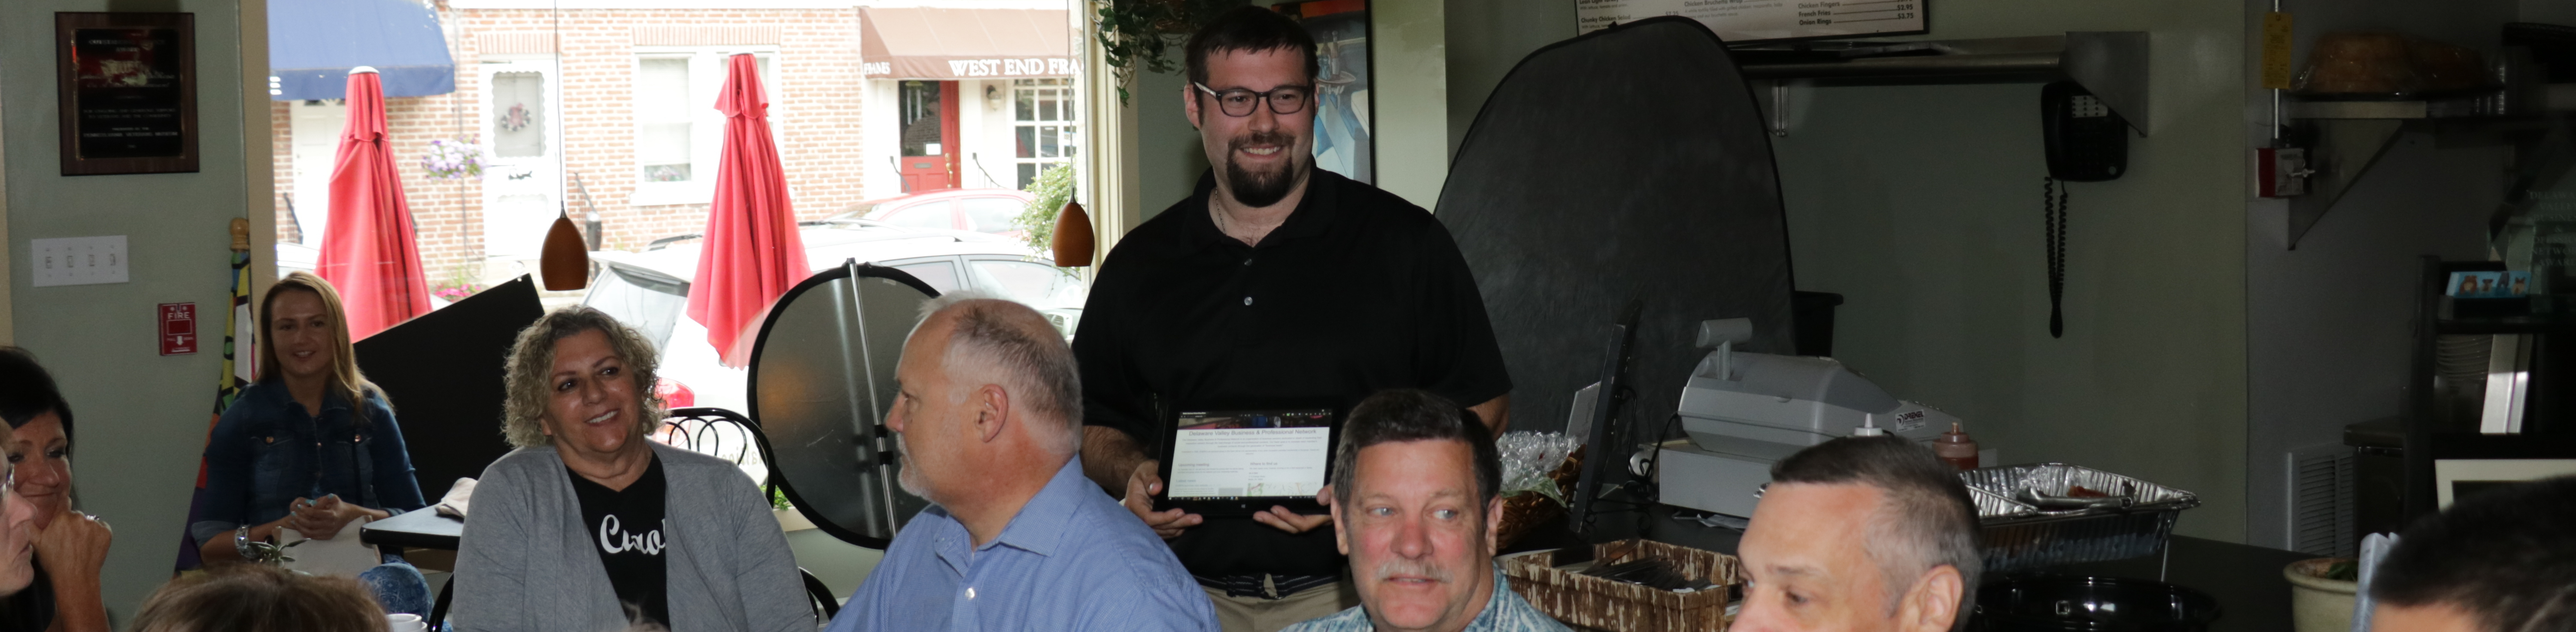
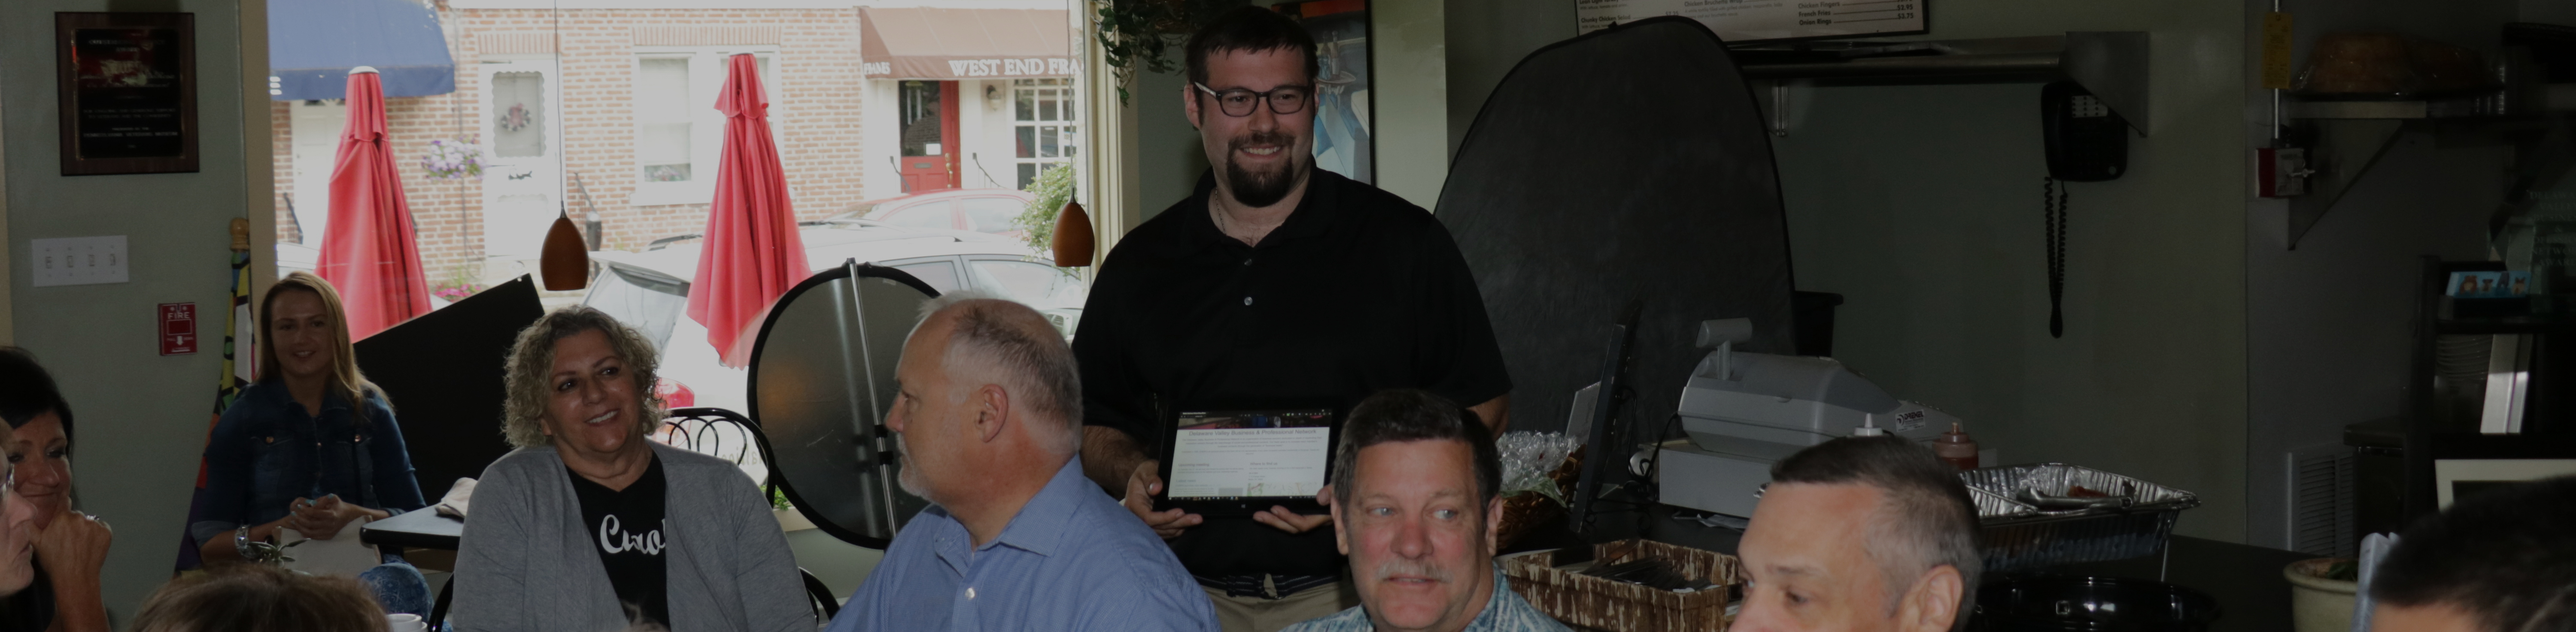
Background image interchange on hero
- darken image in the file instead of using CSS
- move image definition from SCSS to HTML/JS

diff --git a/wahgwan_http/templates/index.html b/wahgwan_http/templates/index.html
@@ -3,7 +3,7 @@
    file, You can obtain one at http://mozilla.org/MPL/2.0/. #}
 {% extends 'base.html' %}
 {% block body %}
-<div class="hero-main text-center">
+<div class="hero-main text-center" data-interchange="[/static/img/640px-17_06_27-142.jpg, small], [/static/img/1024px-17_06_27-142.jpg, medium], [/static/img/1200px-17_06_27-142.jpg, large], [/static/img/1440px-17_06_27-142.jpg, xlarge], [/static/img/17_06_27-142.jpg, xxlarge]">
 	<h1>Welcome to Wahgwan Industry Limited</h1>
 	<p>Helping businesses, organisations and individuals use technology effectively</p>
 	<div class="button-group">

diff --git a/wahgwan_http/scss/app.scss b/wahgwan_http/scss/app.scss
@@ -70,7 +70,7 @@ footer {
 
 .hero-main {
 	@include callout-base;
-	background-image: linear-gradient(rgba(0, 0, 0, 0.4), rgba(0, 0, 0, 0.4)), url('/static/img/17_06_27-142.jpg');
+	// background-image: linear-gradient(rgba(0, 0, 0, 0.4), rgba(0, 0, 0, 0.4)), url('/static/img/17_06_27-142.jpg');
 	background-size: cover;
 	background-position: center;
 	border: 0;
